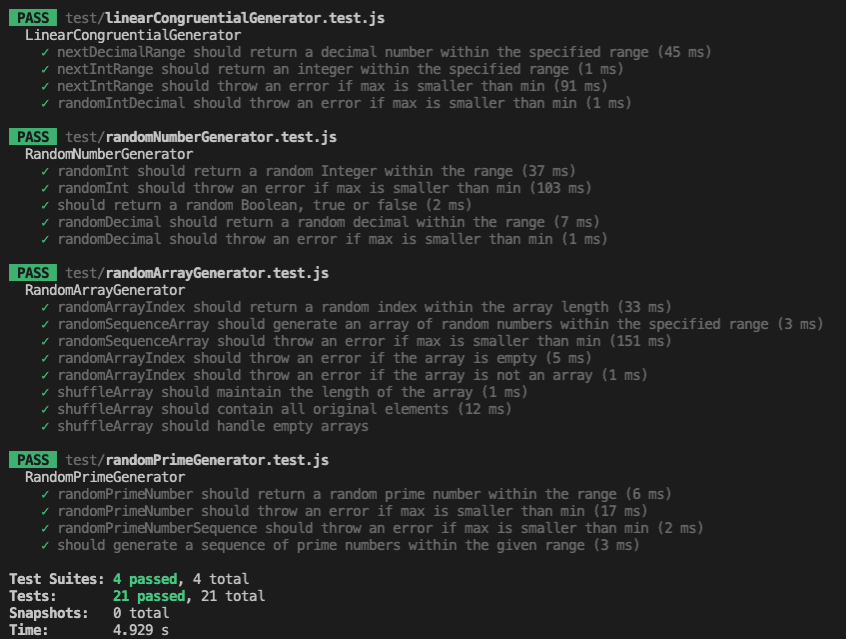
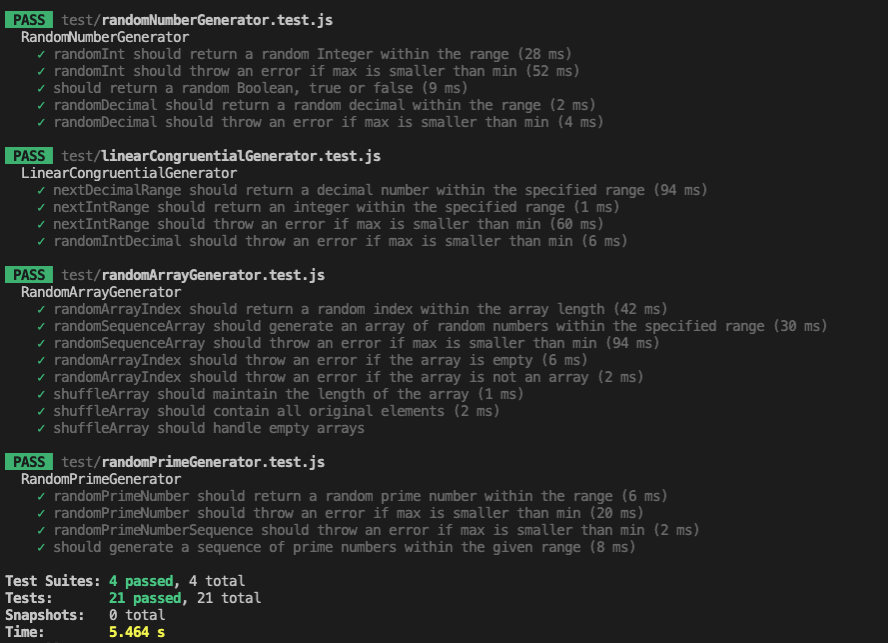
Update name

diff --git a/test/randomPrimeGenerator.test.js b/test/randomPrimeGenerator.test.js
@@ -36,7 +36,7 @@ describe('RandomPrimeGenerator', () => {
     }).toThrow('Minimum must be the same or smaller than maximum.')
   })
 
-  test('should generate a sequence of prime numbers within the given range', () => {
+  test('randomPrimeNumberSequence should generate a sequence of prime numbers within the given range', () => {
     const min = 10
     const max = 30
     const length = 5
@@ -52,8 +52,10 @@ describe('RandomPrimeGenerator', () => {
   })
 
   /**
+   * Function for testing if a number is Prime.
    *
-   * @param number
+   * @param {number} number - The number getting tested.
+   * @returns {boolean} - Returns true if the number is a prime.
    */
   function isPrime (number) {
     if (number <= 1) {

diff --git a/test/randomNumberGenerator.test.js b/test/randomNumberGenerator.test.js
@@ -27,7 +27,7 @@ describe('RandomNumberGenerator', () => {
     }).toThrow('Minimum must be the same or smaller than maximum.')
   })
 
-  test('should return a random Boolean, true or false', () => {
+  test('RabdomBoolean should return a random Boolean, true or false', () => {
     const result = randomNumberGenerator.randomBoolean()
     expect(result).toEqual(expect.any(Boolean))
   })

diff --git a/reflektion.md b/reflektion.md
@@ -314,6 +314,6 @@ Jag håller med om boken när det gäller att kasta undantag istället för att 
 När det kommer till antalet argument i mina funktioner, säger boken att de ska hållas lågt. I vissa av mina metoder har jag dock flera argument, upp till tre.  Jag anser att dessa argument är nödvändiga för att det ska fungera som tänkt, men det kanske finns en mer effektiv metod att hantera dem och undvika att ha många argument i en och samma funktion. 
 
 
-### Reflektion på hela labbration-2
+### Reflektion på hela slumpgeneratorn
 
 Denna uppgift har varit mycket lärorik och har fått mig att reflektera mycket över min egen kodkvalitet och de två kapitel jag har läst i boken. Det har varit mycket intressant att se vad jag redan gör men få en förklaring till varför, samt att få det på svart och vitt hur det ska vara. Jag kommer att ta med mig mycket från dessa kapitel, och det mest tydliga är att jag kommer att använda mer beskrivande namn och faktiskt lägga ner lite tid på att välja namn istället för att bara ta det första och bästa. Metoder/funktioner kommer jag va väldigt noga med att lägga till ett verb i början också då jag insett att de är viktigt för att få koden tydlig. Jag kommer också att ägna mer tid åt att bryta ut delar av funktioner till nya funktioner för att öka läsbarheten och se till att funktionerna endast har en uppgift. Genom att fortsätta att följa de saker jag lärt mig med denna uppgift kommer jag att kunna förbättra min kodkvalitet och göra min kod ännu mer underhållbar och lättförståelig för andra utvecklare.

diff --git a/README.md b/README.md
@@ -1,4 +1,4 @@
-# labbration-2
+# slumpgenerator
 ## Random Number and Array Generator
 
 Detta är ett Javascript bibliotek som erbjuder funktioner för att slumpa fram olika typer av nummer och arrayer som använder sig av en linear congruential metod. Nedanför finns klasser och metoder som går att använda i detta bibliotek tillsammans med kodexempel.
@@ -8,13 +8,13 @@ Detta är ett Javascript bibliotek som erbjuder funktioner för att slumpa fram 
 ### Installera detta bibliotek med npm:
 
 ```bash
-npm install labbration-2
+npm install slumpgenerator
 ```
 
 ### importera biblioteket:
 
 ```Javascript
-import { RandomArrayGenerator, RandomNumberGenerator, RandomPrimeGenerator, LinearCongruentialGenerator } from 'labbration-2'
+import { RandomArrayGenerator, RandomNumberGenerator, RandomPrimeGenerator, LinearCongruentialGenerator } from 'slumpgenerator'
 ```
 
 ### Användningsexempel
@@ -22,7 +22,7 @@ import { RandomArrayGenerator, RandomNumberGenerator, RandomPrimeGenerator, Line
 Här är ett exempel på hur du kan använda RandomNumberGenerator för att generera slumpade tal:
 
 ```javascript
-import { RandomNumberGenerator } from 'labbration-2'
+import { RandomNumberGenerator } from 'slumpgenerator'
 const rng = new RandomNumberGenerator()
 
 // Generera ett slumpat heltal mellan 1 och 10

diff --git a/testrapport.md b/testrapport.md
@@ -1,14 +1,42 @@
 #Testrapport labbration 2
 
-Manuella tester:
-Vad som testas: 
-Hur det testas: 
-testresultat:
+### Automatiska tester
 
-
-Automatiska tester: 
-Kör via terminalen med: 
+För att köra testerna gör du följande:
+```bash
+npm i
+``` 
 ```bash
 npm run test
 ```
+Denna modul har testats med 21 automatiska tester.
+### Följade klasser och metoder testas:
+
+### ErrorHandling klass
+handleArray och handleMinMax testas i samband med de metoder som använder sig av dessa metoder.
+
+### LinearCongruentialGenerator klass
+* nextDecimalRange 
+* nextIntRange 
+
+### RandomNumberGenerator klass
+
+* randomInt
+* randomBoolean
+* randomDecimal
+
+### RandomArrayGenerator klass
+
+* randomArrayIndex
+* randomSequenceArray
+* randomArrayIndex
+* shuffleArray
+
+### RandomPrimeGenerator klass
+
+* randomPrimeNumber
+* randomPrimeNumberSequence
+
+
+## 28/9-23: Alla test är godkända (21 passed, 21 total)
 ![Alt Text](images/automaticTests.png)
